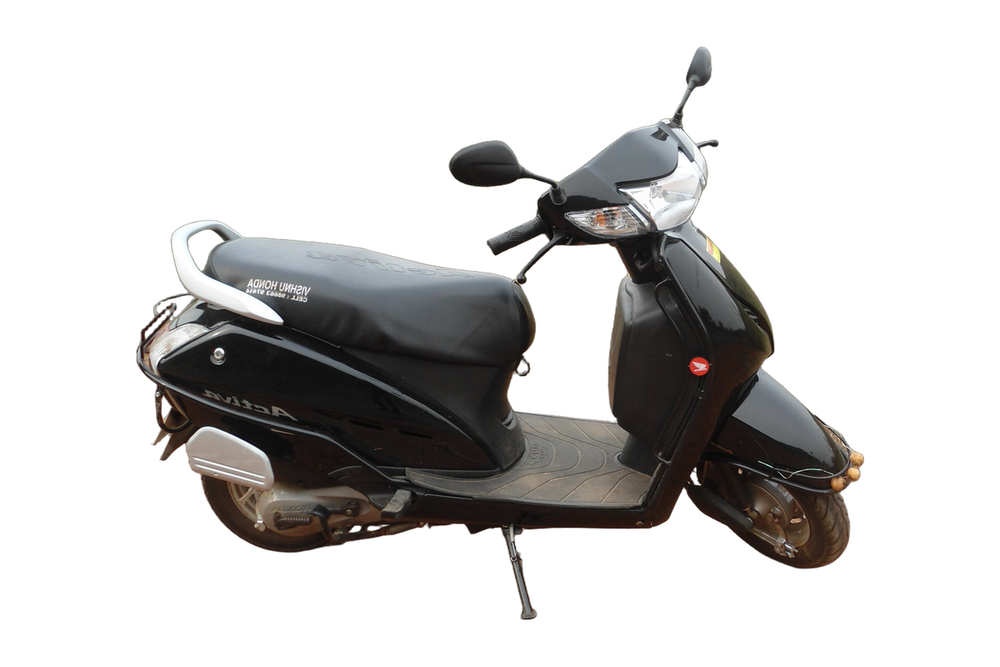
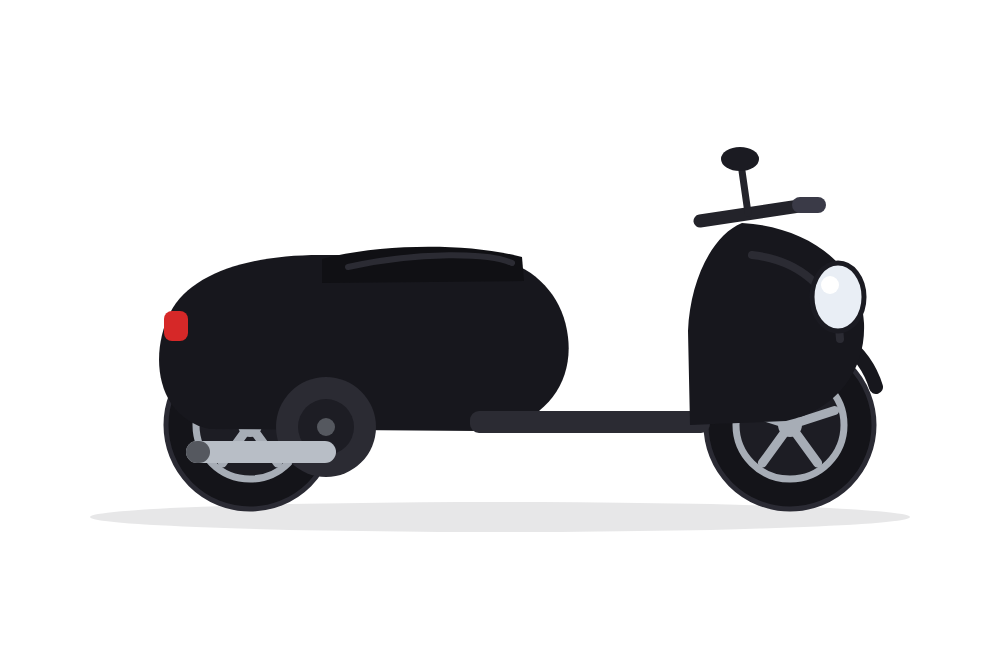
Replace FZ-S and Activa photos with black-on-white product renders
- Swap the Yamaha FZ-S and Honda Activa images for clean black-on-white
  side-profile renders (1000x667) that suit the two-wheeler rental cards.
- Bump their cache-busting version to ?v=2 in index.html.

Changed region(s): [[0.124, 0.1499, 0.899, 0.9295], [0.682, 0.06, 0.713, 0.1499]]

diff --git a/index.html b/index.html
@@ -1547,7 +1547,7 @@
           <div class="tw-media">
             <span class="tw-badge"><i class="fa-solid fa-motorcycle"></i> Motorcycle</span>
             <img
-              src="images/rental-yamaha-fzs.png"
+              src="images/rental-yamaha-fzs.png?v=2"
               alt="Yamaha FZ-S motorcycle offered for self-drive daily bike rental and monthly bike rental"
               class="tw-img"
               width="1000"
@@ -1604,7 +1604,7 @@
           <div class="tw-media">
             <span class="tw-badge"><i class="fa-solid fa-motorcycle"></i> Scooty</span>
             <img
-              src="images/rental-honda-activa.png"
+              src="images/rental-honda-activa.png?v=2"
               alt="Honda Activa scooter offered for self-drive daily scooty rental and monthly two-wheeler rental"
               class="tw-img"
               width="1000"
